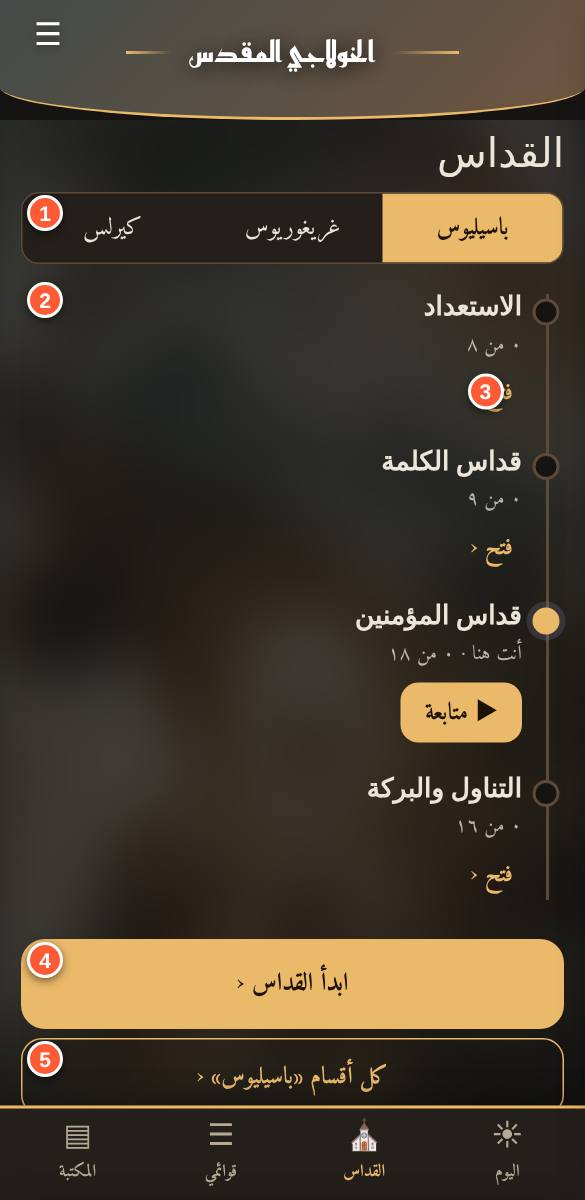
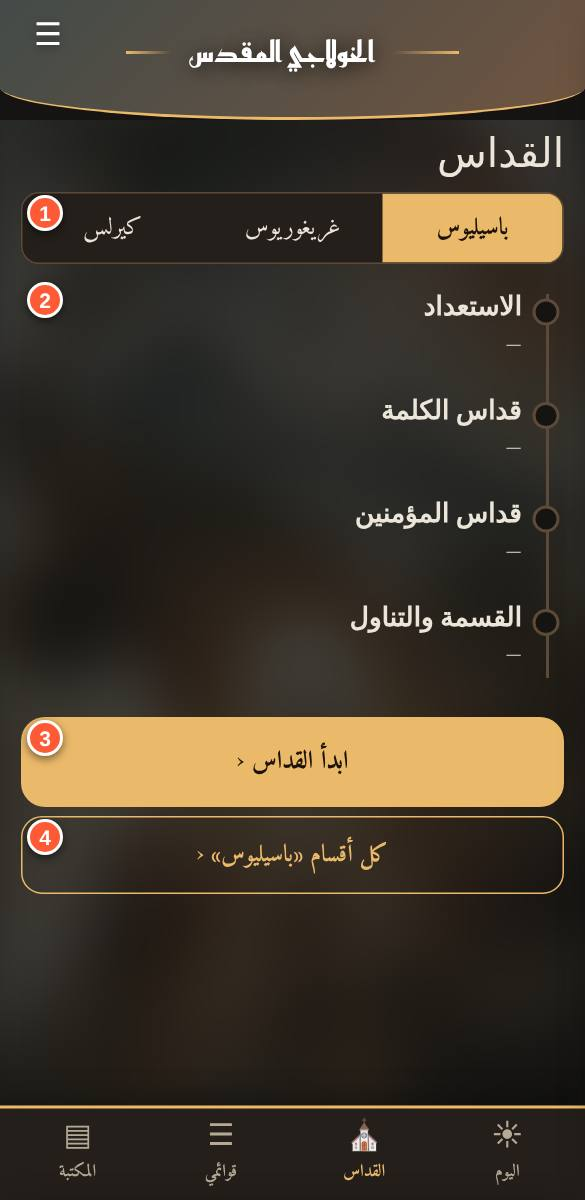
تباين أقوى للأرباع، ألوان مميّزة للتأمل/الشرح/الهمسة مع طي/فتح لكل منها، وانتقال سريع في الفهرس (r128)
Claude-Session: https://claude.ai/code/session_01TxsQH8W41ZBNhnMhe9bVaK

Changed region(s): [[0.0308, 0.2775, 0.9846, 0.925], [0.3385, 0.8942, 0.5846, 0.925]]

diff --git a/index.html b/index.html
@@ -726,6 +726,28 @@ html[data-pg="h"] #btnSet{display:none!important}
 .ddm .cur{background:var(--lk);color:var(--card)}.ddm .cur small{color:var(--card);opacity:.85}
 .ddm .soon{opacity:.55}
 .ddm .ddmap{position:sticky;top:0;z-index:1;background:var(--card2);color:var(--lk);font-weight:700;justify-content:center}
+
+/* تباين الأرباع (مقاطع الذكصولوجيات) */
+html[data-mode="dark"][data-theme]{--za:rgba(0,0,0,.26);--zb:color-mix(in srgb,var(--acc) 26%,transparent)}
+html[data-mode="light"][data-theme]{--za:rgba(255,255,255,.55);--zb:color-mix(in srgb,var(--acc) 22%,transparent)}
+/* ألوان مميّزة: التأمل / الشرح / الهمسة (وتختلف عن خلفية نص القداس) */
+html[data-mode="dark"]{--md-bg:color-mix(in srgb,#2fa6bd 24%,var(--card));--md-line:#4cc3d9;--md-acc:#7fdcec;--ex-bg:color-mix(in srgb,#d6a63a 22%,var(--card));--ex-line:#e0b550;--ex-acc:#f0cd7a;--wh-bg:color-mix(in srgb,#a46fe0 26%,var(--card));--wh-line:#b88af0;--wh-acc:#d2b4fa}
+html[data-mode="light"]{--md-bg:color-mix(in srgb,#2fa6bd 20%,var(--card));--md-line:#1c8aa0;--md-acc:#0f6577;--ex-bg:color-mix(in srgb,#d6a63a 28%,var(--card));--ex-line:#a97a12;--ex-acc:#7a5508;--wh-bg:color-mix(in srgb,#a46fe0 18%,var(--card));--wh-line:#7d4fc0;--wh-acc:#5a2f9a}
+:root:root .med{border-color:var(--md-line)}
+:root:root .exp{background:var(--ex-bg,var(--card2));border-color:var(--ex-line,var(--line));border-inline-start:5px solid var(--ex-line,var(--acc))}
+:root:root .exp .expl{background:var(--ex-line,var(--lk));color:var(--card)}
+:root:root .wh{background:var(--wh-bg,var(--card));border-color:var(--wh-line,var(--acc))}
+.wh small{color:var(--wh-acc,var(--mute))}
+.whc,.whc span{color:var(--wh-acc,var(--acc))}
+.whc:before,.whc:after{border-top-color:var(--wh-line,var(--acc))}.whc span{border-color:var(--wh-line,var(--acc))}
+.rd.art .exp{background:transparent;border:0}.rd.art .exp .expl{display:none}
+.exp.xf{padding:0;overflow:hidden}.rd.art .exp.xf .exb{display:none}.rd.art .exp.xf .exbody[hidden]{display:block}
+.exb{display:flex;align-items:center;gap:8px;width:100%;padding:7px 12px;text-align:start;color:var(--ink);font-size:.88rem}
+.exb .ext{flex:1;min-width:0;overflow:hidden;text-overflow:ellipsis;white-space:nowrap;opacity:.85}.exb .exc{color:var(--ex-acc,var(--mute))}
+.exbody{padding:2px 12px 10px;line-height:1.9}.exbody[hidden]{display:none}
+.ixqj{display:flex;gap:6px;overflow-x:auto;padding:4px 2px 8px;margin:0 0 4px;scrollbar-width:thin}
+.ixqj button{flex:none;white-space:nowrap;padding:5px 11px;border-radius:999px;border:1px solid var(--line);background:var(--card2);color:var(--ink);font-size:.78rem}
+.ixqj button.on{background:var(--acc);color:var(--onacc,#fff);border-color:transparent}
 </style>
 </head>
 <body>
@@ -745,7 +767,7 @@ html[data-pg="h"] #btnSet{display:none!important}
 (function(){
 "use strict";
 var D=window.KHULAGI, $=function(s,e){return (e||document).querySelector(s)};
-var DEF={start:"home",startPage:"#/lit",mode:"auto",tl:"parchment",td:"dawn",stc:true,story:true,resume:true,ml:"line",wh:"strip",story:true,hm:"path",ff:"amiri",vref:true,guide:true,mov:true,today:true,calm:false,wake:false,swipe:true,rm:"unit",mp:"sheet",hide:[],hv:"p",lit:"bas",dn:"n",slim:true,hqo:false,theme:"church",fs:22,cop:true,ar:true,tr:true,pg:false,rub:true,notes:true,med:true,medAll:"closed"};
+var DEF={start:"home",startPage:"#/lit",mode:"auto",tl:"parchment",td:"dawn",stc:true,story:true,resume:true,ml:"line",wh:"strip",story:true,hm:"path",ff:"amiri",vref:true,guide:true,mov:true,today:true,calm:false,wake:false,swipe:true,rm:"unit",mp:"sheet",hide:[],hv:"p",lit:"bas",dn:"n",slim:true,hqo:false,theme:"church",fs:22,cop:true,ar:true,tr:true,pg:false,rub:true,notes:true,med:true,medAll:"closed",ex:"open"};
 var S=Object.assign({},DEF);
 
 var TRM={"ⲁ":"ا","ⲃ":"ڤ","ⲅ":"غ","ⲇ":"د","ⲉ":"ي","ⲍ":"ز","ⲏ":"ي","ⲑ":"ث","ⲓ":"ي","ⲕ":"ك","ⲗ":"ل","ⲙ":"م","ⲛ":"ن","ⲝ":"كس","ⲟ":"و","ⲡ":"ب","ⲣ":"ر","ⲥ":"س","ⲧ":"ت","ⲩ":"ي","ⲫ":"ف","ⲭ":"خ","ⲯ":"بس","ⲱ":"و","ϣ":"ش","ϥ":"ف","ϧ":"خ","ϩ":"ه","ϫ":"ج","ϭ":"تش","ϯ":"تي"};
@@ -870,7 +892,10 @@ function unitsOf(id){
     var sn={pr:"الكاهن",di:"الشماس",pe:"الشعب"};var ss=[];u.sps.forEach(function(x){if(x&&ss.indexOf(sn[x])<0)ss.push(sn[x])});u.who=ss.join(" · ")});
   UC[id]=out;return out}
 function isExp(it){return it&&it.k==="p"&&!!it.ar&&!it.cop&&!it.tr}
-function expHtml(it,q){return '<div class="exp"><span class="expl">شرح</span>'+fnify(it.ar,q).replace(/ \/ /g,'<br>')+'</div>'}
+function expHtml(it,q){var b=fnify(it.ar,q).replace(/ \/ /g,'<br>');
+  if(S.ex!=="fold")return '<div class="exp"><span class="expl">شرح</span>'+b+'</div>';
+  var lead=plain(it.ar||"").split(/\s+/).slice(0,8).join(" ");
+  return '<div class="exp xf"><button class="exb" data-exp="1" aria-expanded="false"><span class="expl">شرح</span><span class="ext">'+esc(lead)+'…</span><span class="exc">▾</span></button><div class="exbody" hidden>'+b+'</div></div>'}
 function rowHtml(it,cols,isDox,st,q){
   if(isExp(it))return expHtml(it,q);
   var zc="";if(isDox&&!it.sp){zc=(st.alt++%2)?' zb':' za'}
@@ -1289,6 +1314,7 @@ app.addEventListener("click",function(e){
   var lt=e.target.closest("[data-lit]");if(lt){S.lit=lt.getAttribute("data-lit");save();home();return}
   var bn=e.target.closest("[data-bn]");if(bn){var k2=bn.getAttribute("data-bn");if(k2==="home"){OPENHOME=true;if(location.hash==="#/"||location.hash===""||location.hash==="#"){todayView()}else location.hash="#/"}else if(k2==="lit")location.hash="#/lit";else if(k2==="lists")location.hash="#/dxlist";else if(k2==="lib")location.hash="#/lib";else if(k2==="search")openSearch();else if(k2==="map")openIdx();else if(k2==="med")location.hash="#/med";else if(k2==="study"){sheet('<h3>دراسة</h3><div class="list"><button class="sec" data-nav="#/compare"><span>مقارنة بين القداسات الثلاثة</span><span class="pn">‹</span></button><button class="sec" data-nav="#/lex"><span>قاموس القبطي المعرَّب</span><span class="pn">‹</span></button><button class="sec" data-nav="#/g/taqs"><span>دليل طقس القداس</span><span class="pn">‹</span></button><button class="sec" data-nav="#/plan"><span>خطتي</span><span class="pn">‹</span></button></div>')}return}
   var m1=e.target.closest("[data-m1]");if(m1){var b1=m1.nextElementSibling,o1=b1.hasAttribute("hidden");o1?b1.removeAttribute("hidden"):b1.setAttribute("hidden","");m1.setAttribute("aria-expanded",o1);var c1=m1.querySelector(".ch");if(c1)c1.textContent=o1?"▴":"▾";return}
+  var ex=e.target.closest("[data-exp]");if(ex){var eb=ex.nextElementSibling,eo=eb.hasAttribute("hidden");eo?eb.removeAttribute("hidden"):eb.setAttribute("hidden","");ex.setAttribute("aria-expanded",eo);ex.querySelector(".exc").textContent=eo?"▴":"▾";return}
   var wh=e.target.closest("[data-wh]");if(wh){var b2=wh.nextElementSibling,o2=b2.hasAttribute("hidden");o2?b2.removeAttribute("hidden"):b2.setAttribute("hidden","");wh.setAttribute("aria-expanded",o2);wh.firstChild.textContent="🕊 همسة "+(o2?"▴":"▾");return}
   var whc=e.target.closest("[data-whc]");if(whc){var ord=["off","strip","open"],nx=ord[(ord.indexOf(S.wh)+1)%3];S.wh=nx;save();toast("همسات الصلاة: "+({off:"مخفية",strip:"شريط",open:"مفتوحة"})[nx]);route();return}
   var sy2=e.target.closest("[data-story]");if(sy2){var sid=CUR.id,sl=BYID[sid]&&BYID[sid].group.id;if(sl&&window.KST)sheet(journeyHtml(sl));return}
@@ -1346,7 +1372,7 @@ function settings(){
   look+='</div><div class="stl">نوع الخط</div><div class="ffs">'+[["amiri","أميري"],["noto","نسخ"],["sch","شهرزاد"],["lat","لطيف"],["mark","مركزي"],["mes","المسيري"],["cairo","القاهرة"],["taj","تجوّل"],["kufi","ريم كوفي"]].map(function(x){return '<button data-set="ff" data-v="'+x[0]+'" data-fk="'+x[0]+'" class="'+((S.ff||"amiri")===x[0]?'on':'')+'">'+x[1]+'</button>'}).join("")+'</div><div class="stl">حجم الخط</div><div class="fsr"><button data-fs="-2" aria-label="تصغير الخط">أ-</button><b>'+S.fs+'</b><button data-fs="2" aria-label="تكبير الخط">أ+</button></div>';
   var rd='';[["rub","الإرشادات الحمراء"],["med","التأملات"],["story","رحلة المسيح في القداس (محطة كل جزء من حياة المسيح)"],["swipe","التنقل بالسحب بين الأجزاء (يمين = التالي · يسار = السابق)"]].forEach(function(r){rd+='<div class="set"><span>'+r[1]+'</span><button class="tg'+(S[r[0]]?' on':'')+'" data-tg="'+r[0]+'" aria-label="'+r[1]+'"></button></div>'});
   var pill=function(k,opts){var o='<div class="sw">';opts.forEach(function(x){o+='<button data-set="'+k+'" data-v="'+x[0]+'" class="'+(S[k]===x[0]?'on':'')+'">'+x[1]+'</button>'});return o+'</div>'};
-  var lay='<div class="stl">طريقة القراءة</div>'+pill("rm",[["unit","قطعة قطعة"],["flow","عرض متصل"]])+'<div class="stl">التأمل داخل القراءة</div>'+pill("ml",[["off","مخفي"],["line","سطر"],["para","فقرة"]])+'<div class="stl">همسات الصلاة (من وحي القطعة)</div>'+pill("wh",[["off","مخفية"],["strip","شريط"],["open","مفتوحة"]])+'<div class="stl">موضع التأمل الكامل</div>'+pill("mp",[["sheet","في الدرج السفلي"],["after","بعد النص مباشرة"]])+'<div class="stl">كثافة القراءة</div>'+pill("dn",[["n","عادية"],["c","مدمجة"]])+'<div class="set"><span>ترويسة مصغّرة</span><button class="tg'+(S.slim?' on':'')+'" data-tg="slim" aria-label="ترويسة مصغّرة"></button></div>';
+  var lay='<div class="stl">طريقة القراءة</div>'+pill("rm",[["unit","قطعة قطعة"],["flow","عرض متصل"]])+'<div class="stl">التأملات داخل القراءة</div>'+pill("ml",[["off","مخفي"],["line","مطوي"],["para","مفتوح"]])+'<div class="stl">همسات الصلاة (من وحي القطعة)</div>'+pill("wh",[["off","مخفية"],["strip","مطوية"],["open","مفتوحة"]])+'<div class="stl">الشروحات (النص الشرحي)</div>'+pill("ex",[["fold","مطوية"],["open","مفتوحة"]])+'<div class="stl">موضع التأمل الكامل</div>'+pill("mp",[["sheet","في الدرج السفلي"],["after","بعد النص مباشرة"]])+'<div class="stl">كثافة القراءة</div>'+pill("dn",[["n","عادية"],["c","مدمجة"]])+'<div class="set"><span>ترويسة مصغّرة</span><button class="tg'+(S.slim?' on':'')+'" data-tg="slim" aria-label="ترويسة مصغّرة"></button></div>';
   var so='<option value="#/lit"'+(S.startPage==="#/lit"?' selected':'')+'>القداس</option><option value="#/dxlist"'+(S.startPage==="#/dxlist"?' selected':'')+'>قوائمي</option><option value="#/lib"'+(S.startPage==="#/lib"?' selected':'')+'>المكتبة</option>';
   var sg='';D.groups.forEach(function(g){if(g.id==="lit")return;sg+='<optgroup label="'+esc(g.title)+'">';g.sections.forEach(function(x){if(BYID[x.id]&&BYID[x.id].has)sg+='<option value="#/s/'+x.id+'"'+(S.startPage==="#/s/"+x.id?' selected':'')+'>'+esc(x.title)+'</option>'});sg+='</optgroup>'});
   var startH='<div class="stl">عند فتح التطبيق</div>'+pill("start",[["home","الصفحة الرئيسية"],["last","آخر صفحة فتحتها"],["page","صفحة أختارها"]])+(S.start==="page"?'<div class="stl">الصفحة</div><select id="startsel" class="startsel"><optgroup label="صفحات">'+so+'</optgroup>'+sg+'</select>':'');
@@ -1387,7 +1413,7 @@ function ixGroup(){
 function buildIdx(){
   var ix=idxEl(),g=ixGroup();
   var h='<div class="ixh"><b>📑 '+(g?esc(g.title):'الأقسام الرئيسية')+'</b><span><button data-live="1" aria-label="وضع الكنيسة">🕯</button><button data-ixset="1" aria-label="الإعدادات">⚙</button><button data-ixc="1" aria-label="إغلاق">✕</button></span></div>';
-  if(g)h+='<button class="ixhome" data-ixhome="1">⌂ الصفحة الرئيسية — كل الأقسام الكبرى</button>';
+  if(g){h+='<div class="ixqj" aria-label="انتقال سريع للأقسام">';D.groups.forEach(function(x){h+='<button data-igg="'+x.id+'" class="'+(x===g?'on':'')+'">'+(ICONS[x.id]||"☩")+' '+esc(shortN(x.title,16))+'</button>'});h+='</div><button class="ixhome" data-ixhome="1">⌂ الصفحة الرئيسية — كل الأقسام الكبرى</button>'}
   if(g&&CUR.id&&BYID[CUR.id]&&BYID[CUR.id].group===g)h+='<div class="ixm"><span>طريقة القراءة</span><span class="ixmb"><button data-ixm="unit" class="'+(S.rm==="unit"?'on':'')+'">قطعة قطعة</button><button data-ixm="flow" class="'+(S.rm==="flow"?'on':'')+'">متصل</button></span></div>';
   h+='<input id="ixq" class="search ixs" placeholder="'+(g?'ابحث في '+esc(g.title)+'…':'ابحث عن قسم…')+'" autocomplete="off" value="'+esc(IXQ)+'"><div id="ixl">'+idxList()+'</div>';
   ix.innerHTML=h}

diff --git a/tools/make-guide.js b/tools/make-guide.js
@@ -23,6 +23,8 @@ const SPECS=[
 {id:'reader',title:'القراءة',hash:'#/s/bas-hulul',summary:'شاشة قراءة أي قسم: نص بثلاثة أعمدة (قبطي، معرَّب، عربي) مع إرشادات الطقس.',
  marks:[['#bsub','اسم القسم ▾','اضغط عليه لتنتقل بسرعة لأي قسم آخر.'],['#opts label:nth-of-type(1)','ع · م · ق','تظهر أو تخفي الأعمدة: العربي، المعرَّب، القبطي.'],['#btnSearch','بحث','يبحث في كل نصوص البرنامج.'],['.sts','رحلة المسيح','المحطة التي تقابل هذا الجزء من القداس (تفصيلها في صفحتها).'],['.unh [data-whc]','🕊 همسة','يظهر أو يخفي همسة صلاة قصيرة من وحي القطعة.'],['.unh [data-live]','🕯 وضع الكنيسة','نص كبير داكن للقراءة داخل الكنيسة.'],['.unh [data-uidx]','فهرس','قائمة قطع هذا القسم للانتقال لأي قطعة.'],['.unb','شريط التقدم','نسبة ما قرأته في هذا القسم.'],['.unp .rub, .rub','إرشاد (أحمر)','حركات الكاهن والشعب وما يقال.'],['#dsheet','الدرج السفلي','تبويبات: النص، تأمل، المحطة، ملاحظات وغيرها. اسحبه لأعلى.'],['#dxfab','＋ / ✓','يضيف القسم لأي قائمة من قوائمك، ويفتح قائمة خياراتها.'],['#qfs','أ+ / أ−','تكبير وتصغير الخط فورا.']],
  nav:'للانتقال بين الأجزاء: «التالي» في آخر الصفحة، أو اسحب الشاشة، أو افتح الفهرس. هذه الأزرار تظهر هنا فقط.'},
+{id:'sidx',title:'الفهرس الجانبي',hash:'#/s/bas-hulul',setup:async p=>{await open(p,'#idxh')},summary:'يُفتح بالسحب من حافة اليمين. في أعلاه شريط انتقال سريع بين الأقسام الكبرى.',
+ marks:[['.ixqj','انتقال سريع','اضغط أي قسم (الباسيلي، الغريغوري، الذكصولوجيات…) لتذهب إليه مباشرة؛ القسم الحالي مضيء.'],['.ixhome','الصفحة الرئيسية','للرجوع لكل الأقسام الكبرى.']]},
 {id:'story',title:'رحلة المسيح في القداس',hash:'#/s/bas-hulul',setup:async p=>{await open(p,'.sts .sti')},summary:'القداس يعيد رحلة المسيح من الميلاد للصعود. هذه الورقة تشرح أي محطة أنت فيها.',
  marks:[['.jin','ما هذه الخريطة؟','شرح قصير للفكرة.'],['.jt.hr','أنت هنا','المحطة التي تقابل ما تقرؤه الآن.'],['.jt:nth-of-type(1) .jm','يقابل في القداس','الجزء من القداس الذي يقابل هذه المحطة.']],
  nav:'في أعلى القراءة: اضغط الصف لتصغير الشريط لدوائر المحطات فقط، وبنفس الضغطة يكبر.'},
@@ -36,7 +38,7 @@ const SPECS=[
  marks:[['.sum','الملخص','عدد الأقسام التي صليتها وعدد القداسات في سجلك.'],['#pnote','أصلي من أجل','اكتب سطرا يبقى في سجلك.'],['[data-postsave]','حفظ في سجلي','يحفظ الملاحظة وما صليته، وتظهر لاحقا تحت «آخر ما سجّلت».']]},
 {id:'notes',title:'تأملي الشخصي',hash:'#/s/bas-hulul',setup:async p=>{await open(p,'.mnb')},summary:'اكتب تأملك الخاص تحت أي قطعة.',
  marks:[['#mnt','خانة التأمل','اكتب ما تأملته في هذه القطعة.'],['[data-mnsave]','حفظ','يُحفظ على جهازك فقط، ويظهر تحت القطعة وفي «تأملاتي» داخل المكتبة.']]},
-{id:'settings',title:'الإعدادات',hash:'#/',h:900,setup:async p=>{await open(p,'#btnSet');await open(p,'[data-stg="start"]')},summary:'كل قوائم الإعدادات مقفولة افتراضيا، وتفتح بالضغط على عنوانها.',
+{id:'settings',title:'الإعدادات',hash:'#/',h:900,setup:async p=>{await open(p,'#btnSet');await open(p,'[data-stg="start"]')},summary:'كل قوائم الإعدادات مقفولة افتراضيا، وتفتح بالضغط على عنوانها. في «القراءة» تضبط التأملات والهمسات والشروحات: مطوية أو مفتوحة، ولكل نوع لون خلفية مميّز.',
  marks:[['[data-stg="look"]','المظهر والخط','وضع الشاشة (تلقائي، فاتح، غامق) مع ثيمات مستقلة لكل وضع، ونوع الخط وحجمه.'],['[data-stg="start"]','بداية التطبيق','تفتح على الرئيسية، أو آخر صفحة، أو صفحة تختارها.'],['[data-stg="lay"]','التخطيط والكثافة','شكل الصفحات وكثافة العرض.'],['[data-stg="read"]','القراءة والدراسة','تشغيل وإيقاف: الإرشادات، التأملات، رحلة المسيح، التنقل بالسحب وغيرها.'],['[data-stg="bk"]','النسخة الاحتياطية','تصدير واسترجاع قوائمك وإعداداتك وتأملاتك.']],
  nav:'للوصول للإعدادات: زر ☰ في أعلى البانر في كل الصفحات ما عدا الشاشة الأولى (وفي القراءة البانر ثابت فيبقى الزر ظاهرا دائما). من الشاشة الأولى: المكتبة ثم «⚙ الإعدادات». في وضع الشماس: اضغط اسم القسم ثم ⚙.'}
 ];

diff --git a/sw.js b/sw.js
@@ -1,5 +1,5 @@
-const CACHE_NAME='khulagi-v1.5-shell-r127';
-const FILES=['./','index.html','guide-news.js','guide-pages.js','guide/doxologies.jpg','guide/library.jpg','guide/lists.jpg','guide/lit.jpg','guide/notes.jpg','guide/post.jpg','guide/pre.jpg','guide/reader.jpg','guide/settings.jpg','guide/splash.jpg','guide/story.jpg','guide/today.jpg','reemkufi-arabic-700-normal.woff2','dawn.jpg','data.js','study.js','swipe.js','live.js','story.js','study-data.js','data-bible.js','content-raf.txt','content-bas.txt','content-greg.txt','content-cyr.txt','content-qisam.txt','content-misc.txt','content-bless.txt','content-app.txt','content-taqs.txt','content-dox.txt','manifest.webmanifest','icon-192.png','icon-512.png','amiri-arabic-400-normal.woff2','amiri-arabic-700-normal.woff2','amiri-latin-400-normal.woff2','tajawal-arabic-400.woff2','tajawal-latin-400.woff2','tajawal-arabic-700.woff2','tajawal-latin-700.woff2','cairo-arabic-400-normal.woff2','cairo-arabic-700-normal.woff2','el-messiri-arabic-400-normal.woff2','el-messiri-arabic-700-normal.woff2','lateef-arabic-400-normal.woff2','lateef-arabic-700-normal.woff2','markazi-text-arabic-400-normal.woff2','markazi-text-arabic-700-normal.woff2','noto-naskh-arabic-arabic-400-normal.woff2','noto-naskh-arabic-arabic-700-normal.woff2','reem-kufi-arabic-400-normal.woff2','reem-kufi-arabic-700-normal.woff2','scheherazade-new-arabic-400-normal.woff2','scheherazade-new-arabic-700-normal.woff2','amiri-latin-700-normal.woff2','noto-sans-coptic-coptic-400-normal.woff2','noto-sans-coptic-latin-400-normal.woff2'];
+const CACHE_NAME='khulagi-v1.5-shell-r128';
+const FILES=['./','index.html','guide-news.js','guide-pages.js','guide/doxologies.jpg','guide/library.jpg','guide/lists.jpg','guide/lit.jpg','guide/notes.jpg','guide/post.jpg','guide/pre.jpg','guide/reader.jpg','guide/settings.jpg','guide/sidx.jpg','guide/splash.jpg','guide/story.jpg','guide/today.jpg','reemkufi-arabic-700-normal.woff2','dawn.jpg','data.js','study.js','swipe.js','live.js','story.js','study-data.js','data-bible.js','content-raf.txt','content-bas.txt','content-greg.txt','content-cyr.txt','content-qisam.txt','content-misc.txt','content-bless.txt','content-app.txt','content-taqs.txt','content-dox.txt','manifest.webmanifest','icon-192.png','icon-512.png','amiri-arabic-400-normal.woff2','amiri-arabic-700-normal.woff2','amiri-latin-400-normal.woff2','tajawal-arabic-400.woff2','tajawal-latin-400.woff2','tajawal-arabic-700.woff2','tajawal-latin-700.woff2','cairo-arabic-400-normal.woff2','cairo-arabic-700-normal.woff2','el-messiri-arabic-400-normal.woff2','el-messiri-arabic-700-normal.woff2','lateef-arabic-400-normal.woff2','lateef-arabic-700-normal.woff2','markazi-text-arabic-400-normal.woff2','markazi-text-arabic-700-normal.woff2','noto-naskh-arabic-arabic-400-normal.woff2','noto-naskh-arabic-arabic-700-normal.woff2','reem-kufi-arabic-400-normal.woff2','reem-kufi-arabic-700-normal.woff2','scheherazade-new-arabic-400-normal.woff2','scheherazade-new-arabic-700-normal.woff2','amiri-latin-700-normal.woff2','noto-sans-coptic-coptic-400-normal.woff2','noto-sans-coptic-latin-400-normal.woff2'];
 self.addEventListener('install',e=>{e.waitUntil(caches.open(CACHE_NAME).then(c=>Promise.all(FILES.map(f=>c.add(new Request(f,{cache:'reload'})).catch(()=>{})))).then(()=>self.skipWaiting()))});
 self.addEventListener('activate',e=>{e.waitUntil(caches.keys().then(k=>Promise.all(k.filter(x=>x!==CACHE_NAME).map(x=>caches.delete(x)))).then(()=>self.clients.claim()))});
 self.addEventListener('fetch',e=>{if(e.request.method!=='GET')return;e.respondWith(fetch(e.request,{cache:'no-cache'}).then(r=>{if(r&&r.ok&&new URL(e.request.url).origin===location.origin){const c=r.clone();caches.open(CACHE_NAME).then(x=>x.put(e.request,c))}return r}).catch(()=>caches.match(e.request,{ignoreSearch:true})))});

diff --git a/guide-pages.js b/guide-pages.js
@@ -81,16 +81,11 @@ window.KG_PAGES=[
    ],
    [
     3,
-    "فتح / متابعة",
-    "يفتح أول جزء لم تقرأه في المرحلة."
-   ],
-   [
-    4,
     "ابدأ القداس",
     "يفتح «قبل القداس»."
    ],
    [
-    5,
+    4,
     "كل أقسام القداس",
     "قائمة كل أجزاء القداس المختار بترتيب الكتاب."
    ]
@@ -201,27 +196,30 @@ window.KG_PAGES=[
   "nav": "للانتقال بين الأجزاء: «التالي» في آخر الصفحة، أو اسحب الشاشة، أو افتح الفهرس. هذه الأزرار تظهر هنا فقط."
  },
  {
+  "id": "sidx",
+  "title": "الفهرس الجانبي",
+  "img": "guide/sidx.jpg",
+  "summary": "يُفتح بالسحب من حافة اليمين. في أعلاه شريط انتقال سريع بين الأقسام الكبرى.",
+  "items": [
+   [
+    1,
+    "انتقال سريع",
+    "اضغط أي قسم (الباسيلي، الغريغوري، الذكصولوجيات…) لتذهب إليه مباشرة؛ القسم الحالي مضيء."
+   ],
+   [
+    2,
+    "الصفحة الرئيسية",
+    "للرجوع لكل الأقسام الكبرى."
+   ]
+  ],
+  "nav": ""
+ },
+ {
   "id": "story",
   "title": "رحلة المسيح في القداس",
   "img": "guide/story.jpg",
   "summary": "القداس يعيد رحلة المسيح من الميلاد للصعود. هذه الورقة تشرح أي محطة أنت فيها.",
-  "items": [
-   [
-    1,
-    "ما هذه الخريطة؟",
-    "شرح قصير للفكرة."
-   ],
-   [
-    2,
-    "أنت هنا",
-    "المحطة التي تقابل ما تقرؤه الآن."
-   ],
-   [
-    3,
-    "يقابل في القداس",
-    "الجزء من القداس الذي يقابل هذه المحطة."
-   ]
-  ],
+  "items": [],
   "nav": "في أعلى القراءة: اضغط الصف لتصغير الشريط لدوائر المحطات فقط، وبنفس الضغطة يكبر."
  },
  {
@@ -368,7 +366,7 @@ window.KG_PAGES=[
   "id": "settings",
   "title": "الإعدادات",
   "img": "guide/settings.jpg",
-  "summary": "كل قوائم الإعدادات مقفولة افتراضيا، وتفتح بالضغط على عنوانها.",
+  "summary": "كل قوائم الإعدادات مقفولة افتراضيا، وتفتح بالضغط على عنوانها. في «القراءة» تضبط التأملات والهمسات والشروحات: مطوية أو مفتوحة، ولكل نوع لون خلفية مميّز.",
   "items": [
    [
     1,

diff --git a/guide-news.js b/guide-news.js
@@ -1,6 +1,7 @@
 /* سجل الميزات الجديدة (الأحدث أولا). كل ميزة جديدة تُضاف هنا كمدخل جديد في أعلى القائمة،
    ثم تُحدَّث مواصفة الصفحة المتأثرة في tools/make-guide.js وتُعاد اللقطات (node tools/make-guide.js). */
 window.KG_NEWS=[
+{v:"r128",t:"ألوان مميّزة للتأمل والشرح والهمسة",x:"كل نوع له لون خلفية خاص في كل الثيمات: التأمل أزرق مخضر، والشرح ذهبي، والهمسة بنفسجية، وكلها تختلف عن خلفية نص القداس. في الإعدادات (القراءة) تضبط كلًّا منها: مطوي أو مفتوح (والتأمل والهمسة يمكن إخفاؤهما). وأرباع الذكصولوجيات صار التباين بينها أقوى. وفي الفهرس الجانبي شريط انتقال سريع بين الأقسام الكبرى."},
 {v:"r127",t:"«ابدأ القداس» بنفس الشكل العادي",x:"أُلغي «وضع الشماس» بشكله الداكن المختلف. الزر يفتح القراءة بنفس تصميمك وألوانك ويسجّل ما صليته، وتجد «بعد القداس» في القائمة."},
 {v:"r126",t:"وضع الشماس: خروج وأعمدة ظاهرة",x:"لم يعد وضع الشماس يُستعاد تلقائيا عند فتح البرنامج. في الشريط العلوي زر ✕ إنهاء وزر ⚙ عرض، واللوحة فيها أزرار ع/م/ق لإظهار الأعمدة، وأ±، والإعدادات."},
 {v:"r122",t:"زر الإعدادات ☰ في البانر",x:"زر ☰ في أعلى البانر في كل الصفحات ما عدا الشاشة الأولى. من الشاشة الأولى تصل للإعدادات من المكتبة ثم «⚙ الإعدادات»، وفي وضع الشماس اضغط اسم القسم ثم ⚙."},
